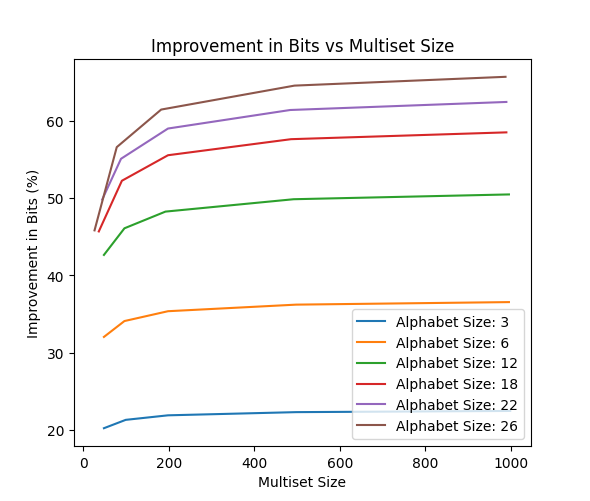
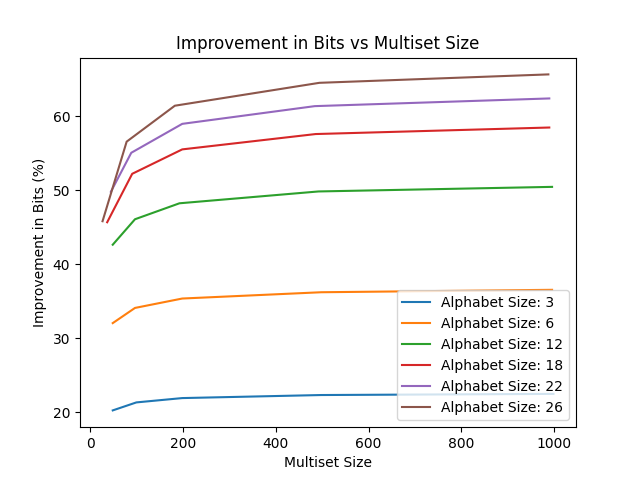
Update JSON plotting code

diff --git a/scl/compressors/multiset_coder.py b/scl/compressors/multiset_coder.py
@@ -5,7 +5,29 @@ from scl.utils.gen_json_maps import gen_dog_info
 from scl.utils.gen_floats import gen_floats
 from math import log2, factorial, ceil
 import json
+
+# Progress bar and timer
 from tqdm import tqdm
+from timeit import default_timer
+
+# Plotting utils
+import matplotlib.pyplot as plt
+
+# Set global plotting format options
+plt.rcParams["font.size"] = 18
+
+plt.rcParams["xtick.major.width"] = 2.0
+plt.rcParams["ytick.major.width"] = 2.0
+plt.rcParams["axes.linewidth"] = 2.0
+plt.rcParams["axes.labelweight"] = "bold"
+plt.rcParams["axes.titleweight"] = "bold"
+
+plt.rcParams["lines.linewidth"] = 1
+plt.rcParams["lines.markersize"] = 10
+
+plt.rcParams["figure.figsize"] = (10, 8)
+
+######################################## COMPRESSOR FUNCTIONS ##########################################
 
 def rans_encode(state: int, cumul_count: int, incidence: int, upper_bound: int):
     # Standard rANS encode
@@ -143,7 +165,6 @@ def generate_e2e_test(multiset_size: int, alphabet_size: int = 5):
 def test_e2e_freq_map():
     # Using matplotlib, plot the % improvement in bits as a function of the
     # multiset size in the following loop
-    import matplotlib.pyplot as plt
 
     multiset_sizes = [50, 100, 200, 500, 1000]
 
@@ -163,7 +184,7 @@ def test_e2e_freq_map():
     plt.xlabel("Multiset Size")
     plt.ylabel("Improvement in Bits (%)")
     plt.legend()
-    plt.show()
+    plt.savefig("figures/freq_map_alph_test.png")
     # for multiset_size in [5, 10, 20, 50, 100, 200, 500, 1000]:
     #     generate_e2e_test(multiset_size)
 
@@ -264,15 +285,7 @@ def run_json_map_e2e_test(num_keys, num_json_entries):
 
         return sorted(outputs)
 
-    # print("Decoded multiset:", decoded_multiset)
     assert big_multiset == decoded_multiset
-    # ser1 = serialize_multiset(big_multiset)
-    # ser2 = serialize_multiset(decoded_multiset)
-    # with open("ser1.txt", "w") as f:
-    #     f.write("\n".join(ser1))
-    # with open("ser2.txt", "w") as f:
-    #     f.write("\n".join(ser2))
-    # assert ser1 == ser2
 
     state = initial_state
     for item in tqdm(data):
@@ -301,37 +314,43 @@ def run_json_map_e2e_test(num_keys, num_json_entries):
     theoretical_bits_used = baseline_bits_used - theoretical_bits_saved
 
     return {
-        "percentage_savings": 100 * ((baseline_bits_used - actual_bits_used) / baseline_bits_used),
+        "actual_percentage_savings": 100 * ((baseline_bits_used - actual_bits_used) / baseline_bits_used),
+        "theoretical_percentage_savings": 100 * ((baseline_bits_used - theoretical_bits_used) / baseline_bits_used),
         "theoretical_bits_used": theoretical_bits_used,
         "actual_bits_used": actual_bits_used,
         "bits_saved": baseline_bits_used - actual_bits_used,
-        "theoretical_bits_saved": baseline_bits_used - theoretical_bits_used,
+        "theoretical_bits_saved": theoretical_bits_saved,
         "percentage_of_theoretical_saved": 100 * ((baseline_bits_used - actual_bits_used) / (baseline_bits_used - theoretical_bits_used))
     }
 
 
 def test_json_map():
-    num_keys = 3
+    colors = ['b', 'r', 'k', 'g', 'm']
+    saved_percentages = []
+    for num_keys in [5]:
+        # Plot percentage savings for different sizes
+        outputs = []
+        sizes = [50, 100, 250, 500, 750, 1000, 1500]
+        for num_entries in sizes:
+            outputs.append(run_json_map_e2e_test(num_keys, num_json_entries=num_entries))
 
-    # Plot percentage savings for different sizes
-    import matplotlib.pyplot as plt
-    outputs = []
-    sizes = [50, 250, 500, 1000]
-    for num_entries in sizes:
-        outputs.append(run_json_map_e2e_test(num_keys, num_json_entries=num_entries))
 
-    # Plot percentage savings for different sizes
-    x = sizes
-    y = [output["percentage_savings"] for output in outputs]
+        # Plot percentage savings for different sizes
+        x = sizes
+        y_actual_saved = [output["actual_percentage_savings"] for output in outputs]
+        y_theoretical_saved = [output["theoretical_percentage_savings"] for output in outputs]
 
-    plt.plot(x, y)
+        saved_percentages.append(np.mean(y_theoretical_saved) - np.mean(y_actual_saved))
+
+        plt.plot(x, y_actual_saved, f"{colors[num_keys-1]}-o", label=f"JSON key count = {num_keys}")
+        plt.plot(x, y_theoretical_saved, f"{colors[num_keys-1]}--s", label=f"Theoretical = {num_keys}")
+
+    print(saved_percentages)
     plt.xlabel("Number of Entries")
     plt.ylabel("Percentage Savings")
-    plt.title("Percentage Savings vs Number of Entries")
-    plt.show()
-
-
-
+    plt.title("Percentage Savings vs. Number of JSON Entries")
+    plt.legend()
+    plt.savefig("figures/json_map_savings.png")
 
 
 def run_float_e2e_test(float_type, negative_proportion, num_floats):
@@ -444,7 +463,7 @@ def test_float_sign():
     print(result)
 
     # Using matplotlib, plot the % savings in bits over numpy 16, 32, 64 bit floats nicely with different lines, colors, and a plot title, legend, and labeled axes
-    import matplotlib.pyplot as plt
+
     for float_type in [np.float16, np.float32, np.float64]:
         result = run_float_e2e_test(float_type, negative_proportion, num_floats)
         print(result)
@@ -457,7 +476,7 @@ def test_float_sign():
     plt.xlabel("Theoretical Bits Used")
     plt.ylabel("Percentage Savings")
     plt.legend()
-    plt.show()
+    plt.savefig("figures/float_savings.png")
 
 
 

diff --git a/scl/utils/gen_json_maps.py b/scl/utils/gen_json_maps.py
@@ -5,7 +5,7 @@ def gen_dog_info(num_keys: int, num_json_entries: int = 500, debug_mode = False)
     np.random.seed(42)
 
     assert num_keys <= len(list(dog_info.keys())), "Too many properties per dog"
-    desired_props = np.random.choice(list(dog_info.keys()), num_keys, replace=False)
+    desired_props = list(dog_info.keys())[:num_keys]
     num_entries = num_json_entries
 
     prop_lists = []
